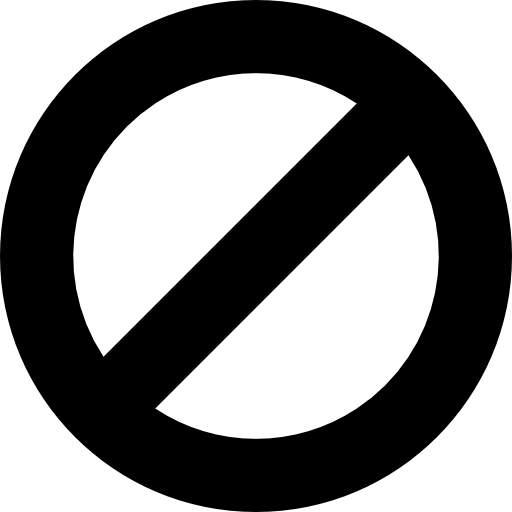
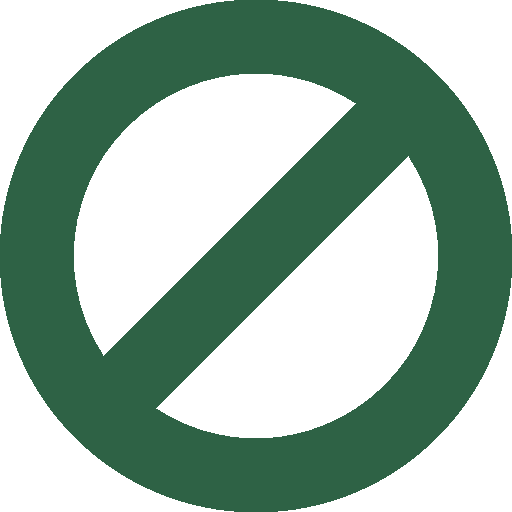
changes in signup that prevent users writing improper names and usernames

diff --git a/html/signup_step1.html b/html/signup_step1.html
@@ -107,7 +107,9 @@
                       placeholder="First name"
                       required
                       autocomplete="given-name"
-                    />
+                      pattern="[A-Za-z0-9]{5,}" 
+                    /> <!-- ADDED PATTERN TO PREVENT USER NAMES LIKE ' OR ; OR . 
+                            ONLY LETTER AND NUMBERS ALLOWED -->
                   </div>
                 </div>
                 <div class="col-6">
@@ -126,7 +128,9 @@
                       placeholder="Last name"
                       required
                       autocomplete="family-name"
-                    />
+                      pattern="[A-Za-z0-9]{5,}"
+                    /> <!-- ADDED PATTERN TO PREVENT USER NAMES LIKE ' OR ; OR . 
+                            ONLY LETTER AND NUMBERS ALLOWED -->
                   </div>
                 </div>
               </div>
@@ -167,7 +171,9 @@
                     placeholder="Choose a username"
                     required
                     autocomplete="username"
-                  />
+                    ^[A-Za-z0-9._\-]{5,20}$
+                  /> <!-- ADDED PATTERN TO PREVENT USER NAMES LIKE ' OR ; OR . 
+                            ONLY LETTER AND NUMBERS ALLOWED -->
                 </div>
               </div>
 

diff --git a/settings_admin.php b/settings_admin.php
@@ -43,7 +43,22 @@
                     echo '</form><br>';
                     
                 ?>
-                <!--Credentials cannot be modified by admin-->
+                <!--Password cannot be modified by admin-->
+                <form class="settings" name="credentials_settings" action="settings_handler.php" method="post" autocomplete="off">
+                    <fieldset><legend>Credentials</legend><br>
+                        <?php
+                        include "user_view_queries.php";
+                        echo '<input type="hidden" name="target_id" value="'.$target_id.'">';
+                        
+                        echo '<label for="username">Username: </label>';
+                        echo '<input id="username" type="text" name="username" pattern="[A-Za-z0-9]{5,}" maxlength="20" 
+                                size="20" title="Write your username, between 5 and 20 characters" 
+                                value="'.$creds["username"].'">';
+                        echo '<br><br>';
+                        ?>
+                    </fieldset>
+                    <input type="submit" name="submit_cred" value="Save Changes">
+                </form><br><br>
 
                 <!--Form for the user to change their user details-->
                 <form class="settings" name="basic_settings" action="settings_handler.php" method="post" autocomplete="off">
@@ -51,7 +66,7 @@
                     <?php
                         // ADMIN CAN EDIT USER PROFILE, DETERMINED BY SUBMIT "EDIT"
                         // see user_view.php - line 174 !!
-                        include "user_view_queries.php";
+                        
                         // hiden input with target id to also let handler know we're not working on sess user
                         echo '<input type="hidden" name="target_id" value="'.$target_id.'">';
                             

diff --git a/settings.php b/settings.php
@@ -32,7 +32,7 @@
                         include "user_queries.php";
                         
                         echo '<label for="username">Username: </label>';
-                        echo '<input id="username" type="text" name="username" pattern="[A-Za-z0-9]{5,}" maxlength="20" 
+                        echo '<input id="username" type="text" name="username" pattern="^[A-Za-z0-9._\-]{5,20}$" maxlength="20" 
                                 size="20" title="Write your username, between 5 and 20 characters" 
                                 value="'.$creds["username"].'">';
                         echo '<br><br>';

diff --git a/user_view.php b/user_view.php
@@ -129,7 +129,7 @@
 
                 $act_php = array("logic_fmatch.php", "logic_rmatch.php", 
                     "logic_block.php", "logic_ban.php", "settings_admin.php");
-                $act_icons = array("friends", "matches", "block", "disable acc", "edit");
+                $act_icons = array("friends", "match", "block", "disable", "edit");
                 
                 foreach ($act_user as $key=>$act) {
                     echo '<div class="admin_activity">';
